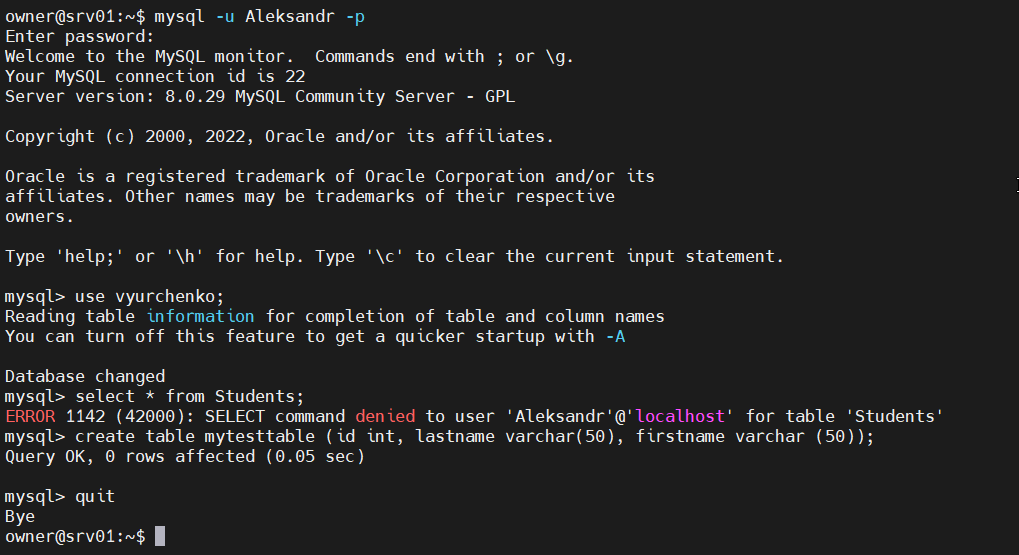
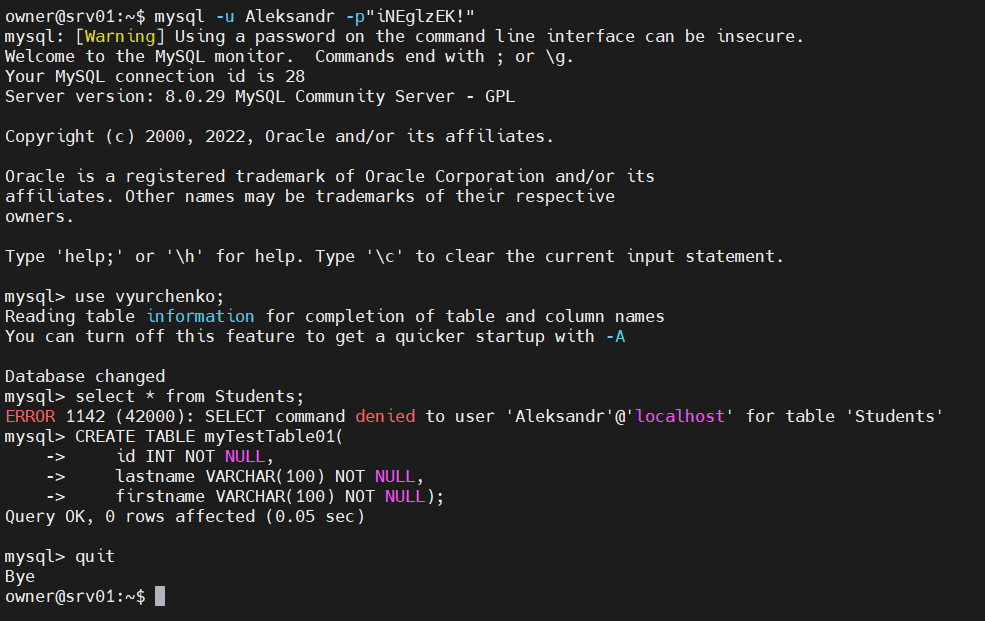
fix module_7_task_7_1_part1_8_1

Changed region(s): [[0.0, 0.0, 0.9137, 0.8577], [0.0, 0.8883, 0.1827, 0.9802], [0.7614, 0.6432, 0.9442, 0.7045]]

diff --git a/m7/task7.1/readme.md b/m7/task7.1/readme.md
@@ -311,13 +311,16 @@ Sammy have a rights to create tables and modify\add columns.
 ![Image alt](img/module_7_task_7_1_part1_8_1.png)
 
 ```
-mysql -u Aleksandr -p
+mysql -u Aleksandr -p"iNEglzEK!"
 
 mysql> use vyurchenko;
 
 mysql> select * from Students;
 
-mysql> create table mytesttable (id int, lastname varchar(50), firstname varchar (50));
+mysql> CREATE TABLE myTestTable01(
+    id INT NOT NULL,
+    lastname VARCHAR(100) NOT NULL,
+    firstname VARCHAR(100) NOT NULL);
 
 mysql> quit
 ```
